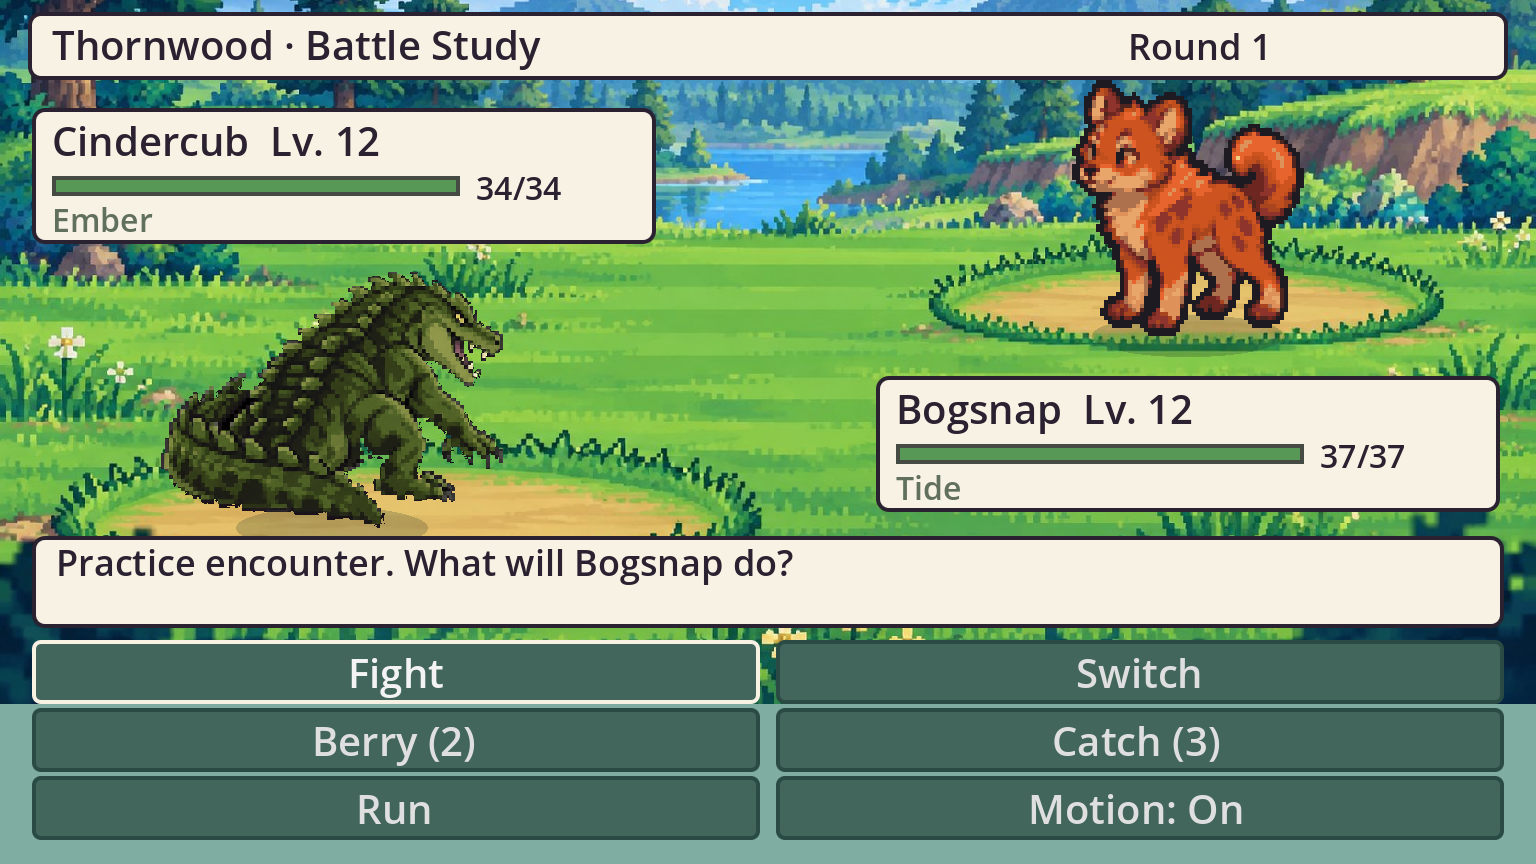
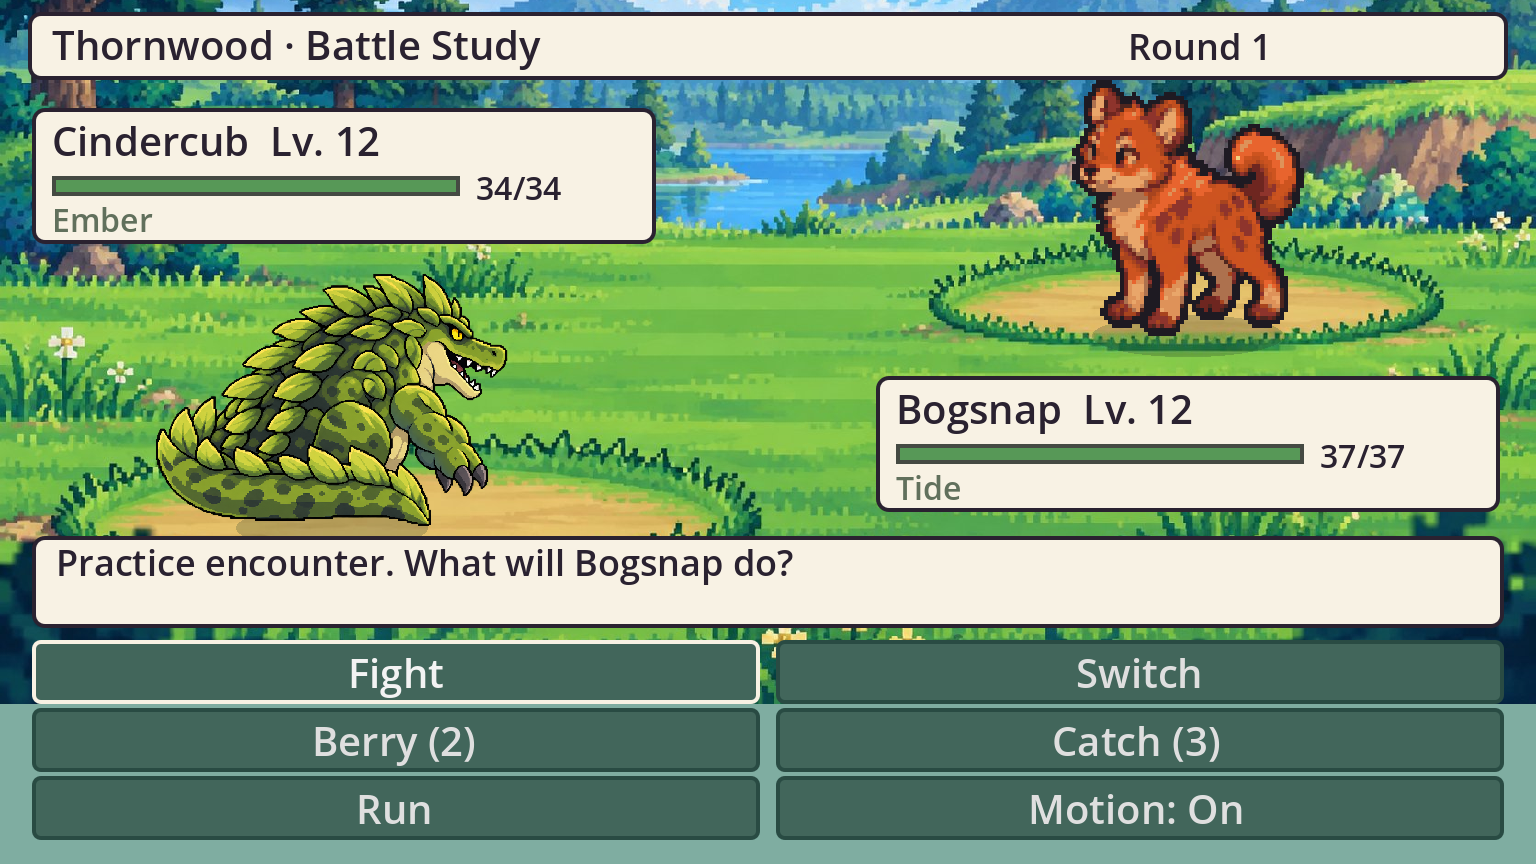
WB-MUSE-INTAKE: Bind Bogsnap to Evan selected model sheet

Changed region(s): [[0.0938, 0.3125, 0.3438, 0.625]]

diff --git a/wildbond-godot/tests/battle_slice/README.md b/wildbond-godot/tests/battle_slice/README.md
@@ -12,7 +12,7 @@ This native desktop prototype is **separate from the adventure**. It never reads
 
 `rounds.gd` owns combat state and seeded randomness, without nodes, timers, file access or drawing. `view.gd` consumes one applied event at a time, showing its health change and message together. `fixture.gd` adapts real species/stat/move data into copied combatants and restores `Rules.DATA`. A later 3D renderer can consume the same event interface.
 
-The study now reuses Evan's supplied Muse background, intact Bogsnap back and Cindercub front. Glimmerwing keeps its existing back painting. Bogsnap uses gentle whole-sprite motion that can be disabled. The supplied idle extracts have clipped snouts and inconsistent silhouettes: they are retained unchanged as references but excluded from playback. Existing sound effects are reused. See `muse/README.md` for provenance and limits; this is not production art approval.
+The study reuses Muse's supplied background and Cindercub front. **Bogsnap follows Evan's selected `15642.jpg` model sheet**, using a reference-derived transparent Battle Back representation in `approved_bogsnap/`; the ZIP's different Bogsnap and clipped idle extracts are reference-only. Glimmerwing keeps its existing back painting. Bogsnap uses optional gentle whole-sprite motion. Existing sound effects are reused. See `approved_bogsnap/README.md` for the authoritative reference, asset/prompt provenance and hashes, and `muse/README.md` for the source package. This is not production art approval.
 
 This study uses Wildbond's current seven elements and 1.5/0.67 effectiveness. Damage flooring and 1.5 STAB, plus the catch-value/four-shake probability calculation, are now adapted from the supplied Muse functions and checked against original-JS fixtures. The selected demo's placeholder type chart is not imported into the game. It adds rounds, explicit speed ordering, accuracy, finite move uses, switching and command priority. It is **not yet the complete Pokemon ruleset**: abilities, dual typing, status-turn execution, critical hits, trainer/doubles rules, XP/evolution and adventure integration remain separate work. Orb-tier/timing controls and animated catch shakes have not yet been ported; native catching uses the existing three-lure supply and basic timing. The selected attack definitions use their name, power, element and damage category; legacy cooldown/status fields are not executed. Deep Drag is an explicit **study-only** 85-power / 80%-accuracy / 10-use risk/reward variant. Other selected moves are 100%-accuracy / 20-use. Original definitions, individuals, spawn tables and saved battles are unchanged.
 
@@ -27,4 +27,4 @@ node tools/run-all-checks.cjs
 Godot --path wildbond-godot --rendering-method gl_compatibility --script res://tests/battle_slice/capture.gd -- C:/absolute/output/folder
 ```
 
-The focused runner passed **1,429 checks**, including the Muse math comparisons and a full-cycle check that clipped poses never enter playback. Human enjoyment and physical-phone acceptance are still unverified. Next gate: Evan plays the study and judges readability, pace and whether move/switch choices are interesting before promoting it into adventure encounters. A two-creature 3D comparison can then reuse the rules without converting the overworld.
+The focused runner passed **1,433 checks**, including the Muse math comparisons, selected asset/reference hashes and a full-cycle check that rejected poses never enter playback. Human enjoyment and physical-phone acceptance are still unverified. Next gate: Evan plays the study and judges readability, pace and whether move/switch choices are interesting before promoting it into adventure encounters. A two-creature 3D comparison can then reuse the rules without converting the overworld.

diff --git a/wildbond-godot/tests/battle_slice/approved_bogsnap/README.md b/wildbond-godot/tests/battle_slice/approved_bogsnap/README.md
@@ -1,0 +1,19 @@
+# Bogsnap: Evan's selected design
+
+Evan corrected the intake on 2026-10-17: **the Bogsnap in Muse's ZIP is not the selected creature design**. The attached `15642.jpg` model sheet is authoritative for this native study. The large **Battle Back** panel at the top middle supplies the pose and identity: broad squat body, mossy overlapping plates, cream belly/throat, heavy curved tail, short forelimb with dark claws, broad snout and yellow eye. Preserve that identity when preparing other views and animation.
+
[1 lines of base64/hex data omitted]
+
[1 lines of base64/hex data omitted]
+
+The drawing is centred with transparent margins. The native source rectangle `(114, 46, 1330, 956)` includes the whole body with margin and excludes invisible exterior alpha specks; the source file is not modified. It is fitted uniformly to 64 logical pixels tall with the same foot anchor. A gentle whole-sprite bob/recoil remains optional; **no skeletal or frame animation is claimed**. Production art/palette approval and human visual acceptance remain separate.
+
+The old ZIP back and idle extracts remain byte-preserved references under `../muse/`, but no runtime frame selection uses them. Current captures are under `docs/screenshots/wildbond-muse-intake/`. The public game and saved adventure are unchanged.
+
+## Prompt set
+
+Initial request: extract only the top-middle Battle Back pose from the supplied model sheet, preserving its broad rear three-quarter silhouette, anatomy, moss plates, cream belly, heavy tail, yellow eye, palette and pixel-art shading; remove panel, labels and other creatures; keep the complete creature on transparent alpha with margins. The exact source panel and exclusions are recorded above.
+
+Final cleanup prompt (built-in image_gen, transparent background enabled):
+
+> Precise background removal / alpha repair ONLY. Keep this existing Bogsnap creature drawing and pose exactly, no redesign, no rearrangement, no different illustration. Remove ALL the diffuse olive glow, soft halo, vignette and black background around the creature. Output a clean sprite cutout on actual fully transparent alpha. All pixels belonging to the creature, including its black outlines, darkest body shadows, dark spots, tail, leaves, cream belly, mouth, teeth, eye and claws, must be fully opaque. Do not punch transparency holes into any dark interior body region. Outside the hard silhouette must be completely transparent, no semitransparent fog or rim. Preserve the present complete broad rear three-quarter silhouette facing right and all proportions, colors and crisp pixel-art features. Keep generous transparent margin at every edge, with full tail, claws and dorsal plates inside the canvas. No shadow, no ground, no text, no new elements. This is a technical alpha cleanup of the existing sprite only.

diff --git a/docs/research/wildbond-muse-intake.md b/docs/research/wildbond-muse-intake.md
@@ -12,7 +12,11 @@ Acceptance: native art/idle correctly aligned; deterministic math agrees with ca
 
 ## Integrated first step
 
-The native study uses the supplied background, intact Bogsnap back and Cindercub front (Glimmerwing retains existing art). **Correction after Evan's screenshot review:** the four extracted idle images contain clipped snouts and inconsistent silhouettes. The initial integration wrongly treated them as a finished cycle. They now remain unchanged as reference-only files; no runtime frame selection uses them. Bogsnap uses the complete back with gentle whole-sprite motion. The mislabeled background is installed as `.jpg` because its bytes are JPEG, with the rename recorded in the hash manifest. The backdrop is uniformly scaled/cropped rather than stretched.
+### Selected Bogsnap design correction
+
+Evan clarified that the Muse ZIP's Bogsnap is **not** the selected creature design. Correcting its cropped idle frames did not resolve that identity mismatch. The `15642.jpg` model sheet is now the authoritative source; its top-middle Battle Back panel defines the current representation. A transparent reference-derived cutout was prepared with the built-in image tool and an alpha-cleanup pass, stored beside a byte-preserved copy of the source sheet under `tests/battle_slice/approved_bogsnap/`. This is a generated extraction, not a pixel-identical crop; its provenance, final prompt and hashes are recorded there. No ZIP Bogsnap file enters playback. The full source margin is retained; the native drawing rectangle excludes invisible exterior alpha specks without cutting the body. Current focused checks: **1,433 passed**; full Wildbond assertions: **26,836 passed, zero failed**. New real-pointer captures show the selected broad, plated design and exit cleanly with automated screenshot audio muted. The normal full headless harness still reports eight ObjectDB instances/four resources in use during shutdown after its passing total; no clean-shutdown claim is made for that harness. Production code and save files are unchanged.
+
+The native study uses the supplied background and Cindercub front, the selected-sheet Bogsnap representation described above, and Glimmerwing's existing art. **Earlier correction after Evan's screenshot review:** the four extracted idle images contain clipped snouts and inconsistent silhouettes. The initial integration wrongly treated them as a finished cycle. They remain unchanged as reference-only files; no runtime frame selection uses them. The mislabeled background is installed as `.jpg` because its bytes are JPEG, with the rename recorded in the hash manifest. The backdrop is uniformly scaled/cropped rather than stretched.
 
 `muse_math.gd` adapts the supplied damage flooring, STAB, stat-stage and burn calculations, effective speed, catch-value modifiers, shake threshold and four-roll result. The native round model now uses the damage and catch calculations. An explicit multiplier preserves Wildbond's current canonical seven-element chart rather than copying Muse's placeholder chart. Defensive corrections preserve zero-rate impossibility and explicit immunity; invalid max HP fails cleanly and stages clamp to their documented bounds.
 

diff --git a/docs/screenshots/wildbond-muse-intake/README.md b/docs/screenshots/wildbond-muse-intake/README.md
@@ -2,4 +2,4 @@
 
 Seven actual Godot 4.7.2 Compatibility-renderer captures at 1536×864: commands, moves, hit, party, switched, escaped and victory. Captured with `tests/battle_slice/capture.gd`, which sends real pointer presses/releases through Fight, move selection, switching, escape, retry and a complete victory. No mockup or generated screenshot. Existing pre-intake images remain in `../wildbond-battle-slice/` for comparison.
 
-The supplied meadow is scaled uniformly and cropped vertically to align the painted platforms. Captures were refreshed after Evan flagged Bogsnap's fragmented appearance. The supplied idle extracts contain clipped snouts and inconsistent silhouettes and are now excluded from playback. Bogsnap uses the complete resting back with gentle whole-sprite motion; all source files remain unchanged. Cindercub and Glimmerwing retain the older visual bar. This is an isolated native prototype, not the public game or physical-phone evidence.
+The supplied meadow is scaled uniformly and cropped vertically to align the painted platforms. Captures were refreshed after Evan identified that the ZIP's Bogsnap was a different design from the agreed sheet. Bogsnap now uses the transparent Battle Back representation prepared from Evan's selected `15642.jpg`, with optional whole-sprite motion. The source and cutout/prompt provenance are retained in `tests/battle_slice/approved_bogsnap/`. The ZIP's different back and clipped idle extracts remain unchanged as references and are excluded from playback. Cindercub and Glimmerwing retain the older visual bar. Automated capture mutes audio; native play retains its usual sound control. This is an isolated native prototype, not the public game or physical-phone evidence.

diff --git a/wildbond-godot/tests/battle_slice/muse/README.md b/wildbond-godot/tests/battle_slice/muse/README.md
@@ -16,4 +16,6 @@ This reproduces **348** original-JS cases and verifies the seven source asset ha
 
 Native differences are explicit: stage inputs clamp to -6..+6; zero type multipliers remain immune; a zero catch rate stays impossible; invalid maximum HP is rejected. Muse's placeholder type chart is retained only in the comparison oracle. The playable study keeps Wildbond's seven canonical elements and existing 1.5/0.67 chart, but uses the ported flooring and 1.5 STAB calculation. It uses the four-shake probability model with its existing three-lure supply and basic timing bonus. Orb-tier UI, interactive timing ring, four animated shakes and full status-turn execution are later integration work; accepting parameters in pure math does not mean those controls/status systems are already in the native scene.
 
+**Selected design correction:** Evan clarified that even the intact Bogsnap back in this ZIP is a different design from the agreed model sheet. The entire ZIP Bogsnap set is now reference-only. Playback uses the reference-derived Battle Back in `../approved_bogsnap/`, tied to a byte-preserved copy of Evan's selected sheet and explicit hashes. Preserve that identity in later art work; do not substitute a ZIP file because it has the same species name.
+
 The public adventure's battle code, assets, world, saves and web export are unchanged. Keep this comparison and source provenance when promoting any accepted part into runtime.

diff --git a/START-HERE.md b/START-HERE.md
@@ -98,6 +98,7 @@ section 4). Take your named task, then the block's spare-effort order. How to wo
 3. If you added a design decision, put it in the relevant design doc too.
 
 ## Session log (newest first; one or two lines each)
+- 2026-10-17 Codex / Evan: #547 now uses the Battle Back design from Evan's selected `15642.jpg` sheet; the ZIP's different Bogsnap and clipped idle frames are reference-only. Source sheet, derived cutout, hashes and prompts preserved; native captures refreshed; 1,433 focused checks pass.
 - 2026-10-17 Codex / Evan: corrected #547's fragmented Bogsnap: supplied idle extracts clip the snout and vary in silhouette, so playback now uses the complete back with whole-sprite motion. Source extracts retained as references; captures refreshed; 1,429 focused checks pass.
 - 2026-10-17 Codex / Evan: WB-MUSE-INTAKE #547 reuses the supplied Muse background/Bogsnap idle and ports damage/catch calculations into the native study, with 348 original-JS cases and source hashes. Existing world, saves and public pack unchanged; full status/timing controls remain next.
 - 2026-10-17 Codex / Evan: WB-BATTLE-SLICE #546 builds an isolated, save-free native sprite battle with separate round rules, accuracy, switching, berries and catching. Existing Bogsnap/Glimmerwing backs reused; public adventure and #544 web pack unchanged. Human feel awaits play.

diff --git a/docs/PROJECTS.md b/docs/PROJECTS.md
@@ -2,7 +2,7 @@
 
 | ID | Project | Size | Status | Scope |
 |---|---|---|---|---|
-| WB-MUSE-INTAKE | Reuse supplied battle art and isolated math | Small | Built: Codex / Evan, PR #547 | Intact back/background and native math adapter; clipped idle extracts are reference-only after Evan's review; 348 JS cases, 1,429 focused / 26,832 Wildbond checks pass; stacks on #546; native study only |
+| WB-MUSE-INTAKE | Reuse supplied battle art and isolated math | Small | Built: Codex / Evan, PR #547 | Selected-sheet Bogsnap replaces ZIP variant; ZIP back/idles reference-only; Muse background/math reused; 1,433 focused / 26,836 Wildbond assertions pass; harness shutdown caveat recorded; stacks on #546; native study only |
 
 ## Wildbond sprite battle study
 
